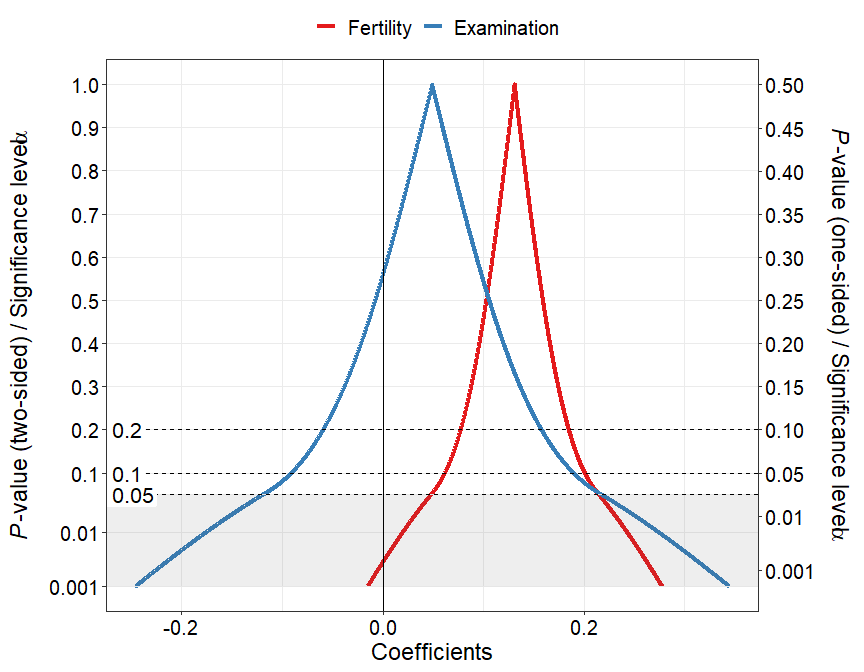
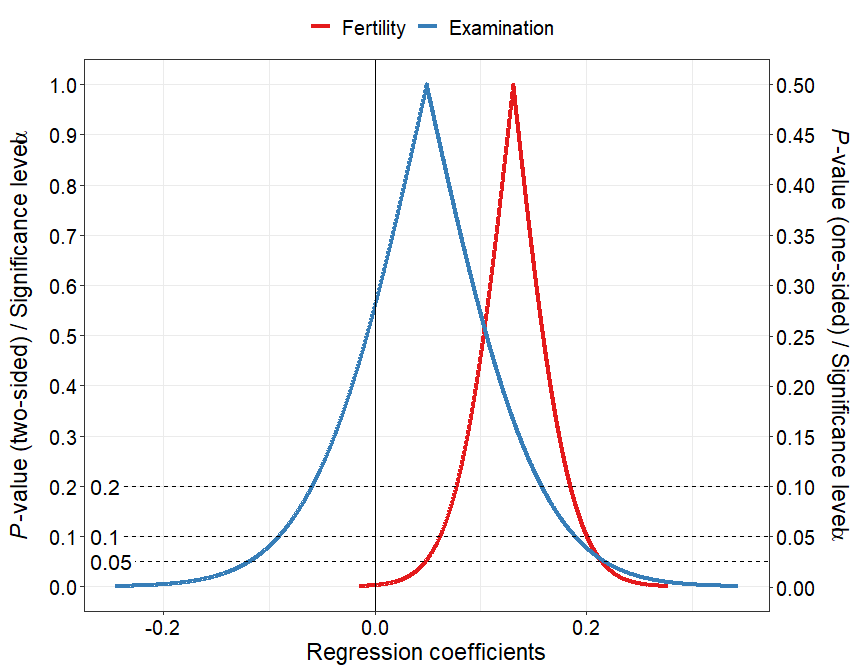
Changed vignette and README: - Added information about how the p-value function for a single proportion is calculated (Wilson). - Changed most p-value functions so that the y-axis is shown without a logarithmic part, added explanation.

diff --git a/README.md b/README.md
@@ -60,8 +60,7 @@ functions, confidence distributions, confidence densities, or the
 
 You can install the package directly from CRAN by typing
 `install.packages("pvaluefunctions")`. After installation, load it in R
-using
-`library(pvaluefunctions)`.
+using `library(pvaluefunctions)`.
 
 <!-- Download the file `confidence_distributions.R` to your computer. You can either `source()` the function in R or open it, select and run everything. After loading the function, it's ready for use. -->
 
@@ -164,8 +163,8 @@ The function has the following arguments:
     (i.e. `log_yaxis = TRUE`).
   - `plot_counternull`: Logical. Indicating if the counternull should be
     plotted as a point. Only available for -value functions and s-value
-    functions. If the counternull values are outside of the plotted
-    functions, they are not shown.
+    functions. Counternull values that are outside of the plotted
+    functions are not shown.
 
 ### Required arguments for different estimate types
 
@@ -259,6 +258,14 @@ res <- conf_dist(
 ### Single coefficient from a linear regression model
 
 #### *P*-value function
+
+Because it’s difficult to see very small *p*-values in the graph, you
+can set the option `log_yaxis = TRUE` so that *p*-values (i.e. the
+y-axes) below the value set in `cut_logyaxis` will be plotted on a
+logarithmic scale. This will make it much easier to see small *p*-values
+but has the disadvantage of creating a “kink” in the *p*-value function
+which is a pure artifact and puts an undue emphasis on the specified
+cutoff.
 
 ``` r
 #-----------------------------------------------------------------------------
@@ -365,9 +372,9 @@ res <- conf_dist(
   , null_values = c(0)
   , trans = "identity"
   , alternative = "two_sided"
-  , log_yaxis = TRUE
+  , log_yaxis = FALSE
   , cut_logyaxis = 0.05
-  , xlab = "Coefficients"
+  , xlab = "Regression coefficients"
   , together = TRUE
   , plot_p_limit = 1 - 0.999
   , plot_counternull = FALSE
@@ -393,7 +400,7 @@ res <- conf_dist(
   , alternative = "two_sided"
   # , log_yaxis = TRUE
   # , cut_logyaxis = 0.05
-  , xlab = "Coefficients"
+  , xlab = "Regression coefficients"
   , together = TRUE
   , plot_p_limit = 1 - 0.999
   , plot_counternull = TRUE
@@ -437,7 +444,7 @@ res <- conf_dist(
   , null_values = c(0)
   , trans = "identity"
   , alternative = "one_sided"
-  , log_yaxis = TRUE
+  , log_yaxis = FALSE
   , cut_logyaxis = 0.05
   , xlab = "Pearson correlation"
   , together = TRUE
@@ -506,7 +513,7 @@ res <- conf_dist(
   , null_values = c(log(1)) # null value on the log-odds scale
   , trans = "exp"
   , alternative = "two_sided"
-  , log_yaxis = TRUE
+  , log_yaxis = FALSE
   , cut_logyaxis = 0.05
   , xlab = "Odds Ratio (GPA)"
   , xlim = log(c(0.7, 5.2)) # axis limits on the log-odds scale
@@ -520,6 +527,10 @@ res <- conf_dist(
 
 ### Proportion
 
+The *p*-value function (and thus the confidence intervals) are based on
+Wilson’s score interval and not the normal approximation. This means
+that the *p*-value function will never be outside the interval \[0, 1\].
+
 ``` r
 res <- conf_dist(
   estimate = c(0.44)
@@ -532,7 +543,7 @@ res <- conf_dist(
   , null_values = c(0.5)
   , trans = "identity"
   , alternative = "two_sided"
-  , log_yaxis = TRUE
+  , log_yaxis = FALSE
   , cut_logyaxis = 0.05
   , xlab = "Proportion"
   # , xlim = log(c(0.95, 1.2))
@@ -557,7 +568,7 @@ res <- conf_dist(
   , null_values = c(0)
   , trans = "identity"
   , alternative = "two_sided"
-  , log_yaxis = TRUE
+  , log_yaxis = FALSE
   , cut_logyaxis = 0.05
   , xlab = "Difference between proportions"
   , together = FALSE
@@ -613,7 +624,7 @@ res <- conf_dist(
   , plot_type = "p_val"
   , n_values = 1e4L
   # , est_names = c("Estimate")
-  , log_yaxis = TRUE
+  , log_yaxis = FALSE
   , cut_logyaxis = 0.05
   , conf_level = c(0.95, 0.99)
   , null_values = c(0, 0.3)
@@ -649,7 +660,7 @@ res <- conf_dist(
   , plot_type = "pdf"
   , n_values = 1e4L
   , est_names = c("Variance")
-  , log_yaxis = TRUE
+  , log_yaxis = FALSE
   , cut_logyaxis = 0.05
   , conf_level = c(0.95)
   # , null_values = c(15^2, 18^2)
@@ -729,12 +740,12 @@ distribution estimator of a parameter: A review. *Internat Statist Rev.*
     #> 
     #> loaded via a namespace (and not attached):
     #>  [1] Rcpp_1.0.1         RColorBrewer_1.1-2 pillar_1.4.1      
-    #>  [4] compiler_3.6.0     prettyunits_1.0.2  remotes_2.0.4     
+    #>  [4] compiler_3.6.0     prettyunits_1.0.2  remotes_2.1.0     
     #>  [7] tools_3.6.0        testthat_2.1.1     digest_0.6.19     
     #> [10] pkgbuild_1.0.3     pkgload_1.0.2      tibble_2.1.3      
     #> [13] gtable_0.3.0       evaluate_0.14      memoise_1.1.0     
-    #> [16] pkgconfig_2.0.2    rlang_0.3.4        cli_1.1.0         
-    #> [19] curl_3.3           yaml_2.2.0         xfun_0.7          
+    #> [16] pkgconfig_2.0.2    rlang_0.4.0        cli_1.1.0         
+    #> [19] curl_3.3           yaml_2.2.0         xfun_0.8          
     #> [22] dplyr_0.8.1        withr_2.1.2        stringr_1.4.0     
     #> [25] knitr_1.23         desc_1.2.0         fs_1.3.1          
     #> [28] devtools_2.0.2     tidyselect_0.2.5   rprojroot_1.3-2   
